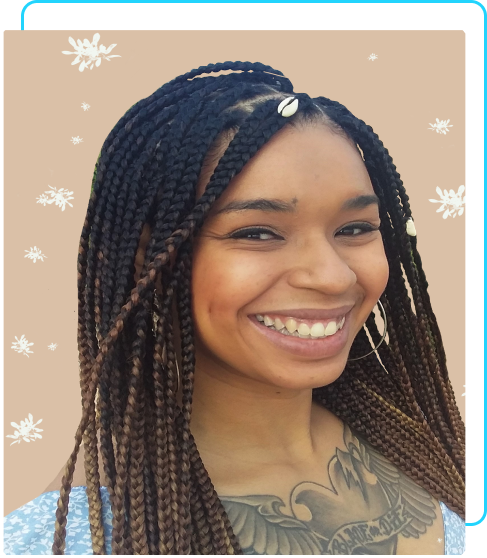
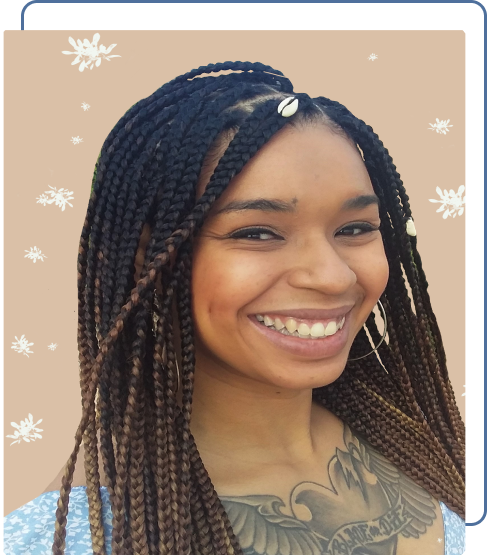
atualizacao do layout

Changed region(s): [[0.0308, 0.0, 1.0, 0.9444]]

diff --git a/style.css b/style.css
@@ -3,9 +3,9 @@
 
 
 :root {
-    --cor-principal: #000000;
-    --cor-secundaria:  #F6F6F6;
-    --cor-terciaria: #22D4FD;
+    --cor-principal: #F5EFE7;
+    --cor-secundaria:  #213555;
+    --cor-terciaria: #4F709C;
 
     --fonte-principal: 'Andika', sans-serif;
     --fonte-secundaria: 'Montserrat', sans-serif;
@@ -116,7 +116,7 @@ body{
 }
 
 .apresentacao__links__link:hover {
-    background: #272727 url(./assets/dark-blue.png);
+    background: #272727 url(./assets/hover.png);
     background-size: 50%;
   
     transition-delay: .8s;

diff --git a/curriculo.html b/curriculo.html
@@ -39,7 +39,7 @@
         </ul>
         </div>    
     </section>
-    <img src="./assets/imagem.png" alt="Foto da Joana Santos programando">
+    <img class="apresentacao__imagem" src="./assets/imagem.png" alt="Foto da Joana Santos programando">
 </main> 
 
 </body>

diff --git a/index.html b/index.html
@@ -43,7 +43,7 @@
                 </a>
                 </div>
             </section>
-            <img src="./assets/Imagem.png" alt="Foto da Bruna">
+            <img class="apresentacao__imagem"  src="./assets/Imagem.png" alt="Foto da Bruna">
     </main>
 
 

diff --git a/about.html b/about.html
@@ -37,7 +37,7 @@
          
     </section>
 
-<img src="./assets/imagem.png" alt="Foto da bruna">
+<img class="apresentacao__imagem" src="./assets/imagem.png" alt="Foto da bruna">
 
 </main>
 
